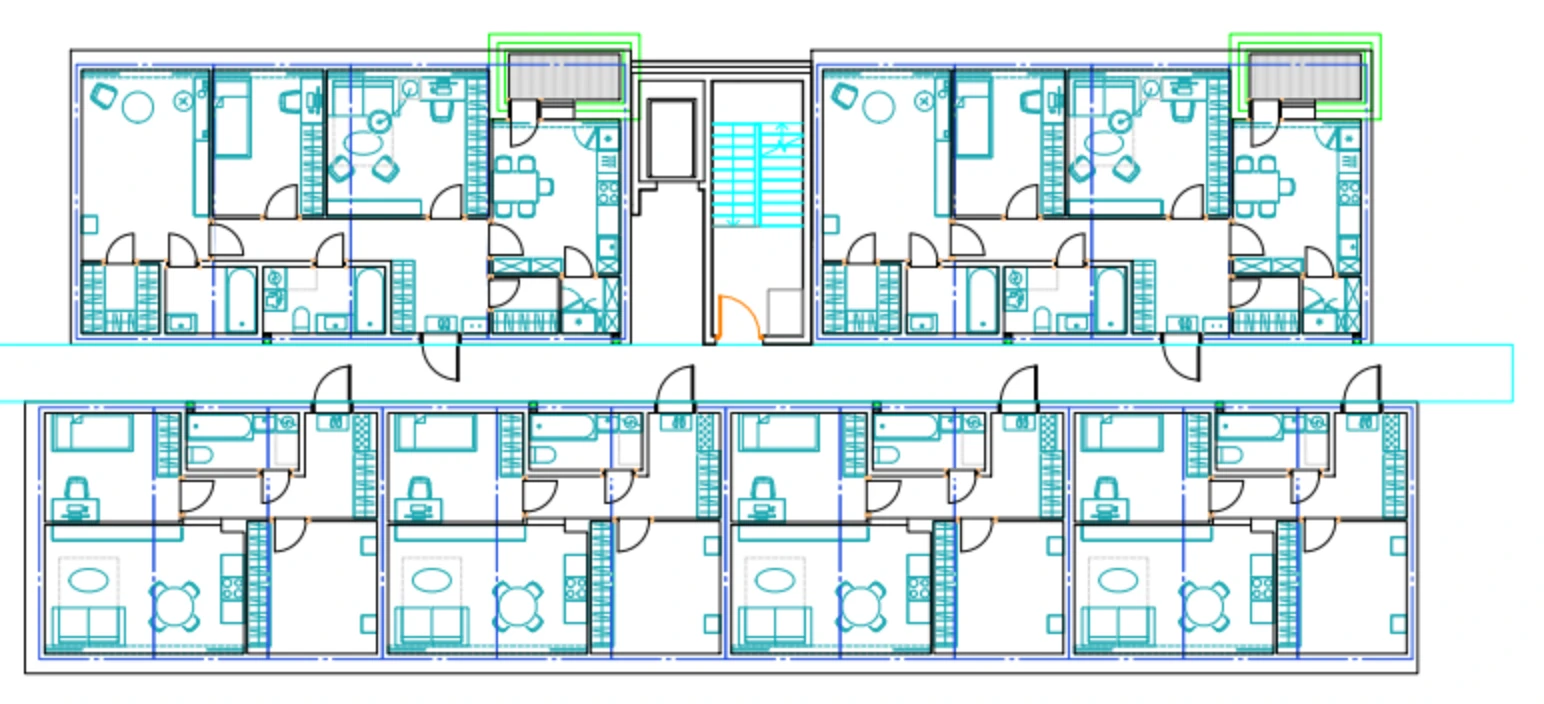
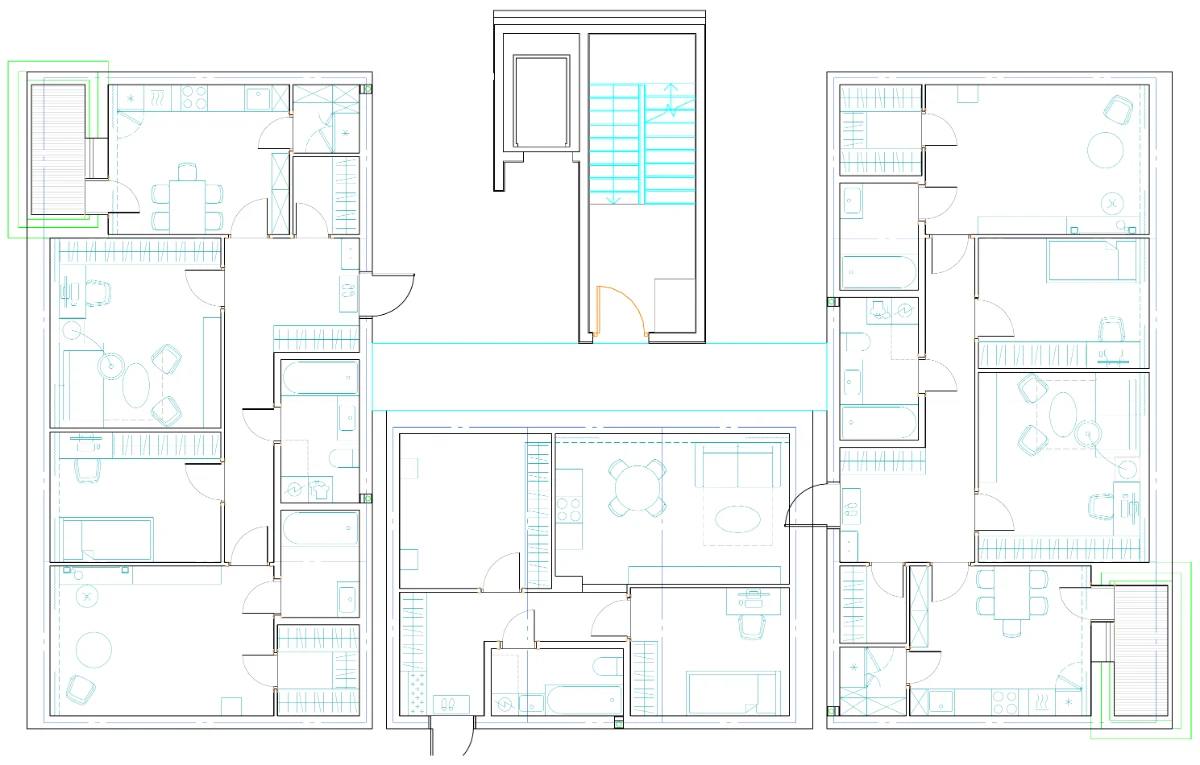
витрина: на первом экране чертёж в полном разрешении
Был кроп 1544x704 из листа AutoCAD 2978x2105 - линии рассыпались при
уменьшении. Теперь весь лист двумя размерами через srcset: телефону
1200x765 и 56 КБ, экрану с двойной плотностью 2400x1530 и 148 КБ.

LCP на мобильном 2460 мс при бюджете 2500, приёмка 30/30.

diff --git a/site/index.html b/site/index.html
@@ -15,7 +15,7 @@
   <link rel="icon" type="image/png" sizes="64x64" href="program-flow/branding/kvartirnik-icon-64.png?v=liquid-glass-1">
   <link rel="apple-touch-icon" sizes="180x180" href="program-flow/branding/kvartirnik-icon-180.png?v=liquid-glass-1">
   <link rel="canonical" href="https://kvartirnik-au.ru/">
-  <link rel="preload" as="image" href="program-flow/output/llt-section.webp" type="image/webp" fetchpriority="high">
+  <link rel="preload" as="image" href="program-flow/output/llt-section.webp" type="image/webp" imagesrcset="program-flow/output/llt-section.webp 1200w, program-flow/output/llt-section@2x.webp 2400w" imagesizes="(max-width: 900px) 100vw, 720px" fetchpriority="high">
   <link rel="stylesheet" href="program-flow/index-html.7ae7b770ad96.css">
   <script type="module" src="program-flow/nav-menu.js"></script>
   <script type="module" src="program-flow/manager-overview.js"></script>
@@ -68,7 +68,7 @@
       <figure class="result-proof">
         <div class="result-proof__frame">
           <div class="result-proof__canvas">
-          <img id="evidenceImage" src="program-flow/output/llt-section.webp" width="1544" height="704" decoding="async" fetchpriority="high" alt="Настоящий снимок работающего приложения: детальные планы квартир CS3-90 с мебелью, стенами, дверями, коридором и лифтово-лестничным узлом." aria-describedby="resultAnnotations resultCaption">
+          <img id="evidenceImage" src="program-flow/output/llt-section.webp" srcset="program-flow/output/llt-section.webp 1200w, program-flow/output/llt-section@2x.webp 2400w" sizes="(max-width: 900px) 100vw, 720px" width="1200" height="765" decoding="async" fetchpriority="high" alt="Настоящий снимок работающего приложения: детальные планы квартир широтной секции ЛЛТ с мебелью, стенами, дверями, коридором и лифтово-лестничным узлом.">
             <ol class="result-proof__annotations" id="resultAnnotations" aria-label="Что показано на схеме">
               <li data-callout="apartments"><span>1</span><strong>Квартиры размещены</strong></li>
               <li data-callout="core"><span>2</span><strong>ЛЛУ и коридор сохранены</strong></li>
@@ -152,11 +152,11 @@
           <details class="technical-details technical-details--compact" data-technical-copy>
             <summary>Версия витрины и приложения</summary>
             <dl>
-              <div><dt>Исходник портала</dt><dd id="portalBuildCommit" title="publication-20260812095841">publication-20260812095841</dd></div>
-              <div><dt>Портал собран</dt><dd id="portalBuildGeneratedAt">12 августа 2026 г. в 12:58</dd></div>
+              <div><dt>Исходник портала</dt><dd id="portalBuildCommit" title="publication-20260812102725">publication-20260812102725</dd></div>
+              <div><dt>Портал собран</dt><dd id="portalBuildGeneratedAt">12 августа 2026 г. в 13:27</dd></div>
               <div><dt>Портал опубликован</dt><dd id="portalBuildPublishedAt">нет данных</dd></div>
               <div><dt>Режим портала</dt><dd id="portalBuildMode">локальная сборка</dd></div>
-              <div><dt>Версия приложения</dt><dd id="applicationCommit" title="publication-20260812095841">publication-20260812095841</dd></div>
+              <div><dt>Версия приложения</dt><dd id="applicationCommit" title="publication-20260812102725">publication-20260812102725</dd></div>
               <div><dt>Проверка приложения</dt><dd id="applicationRelease">подтверждённого результата проверки нет</dd></div>
               <div><dt>Приложение проверено</dt><dd id="applicationCheckedAt">нет данных</dd></div>
             </dl>

diff --git a/site/program-flow/roadmap.html b/site/program-flow/roadmap.html
@@ -90,7 +90,7 @@
         </article>
         <article>
           <span>Публикация</span>
-          <strong id="deploymentSha" title="Исходник портала: publication-20260812095841; удалённая проверка: нет данных">нет данных о публикации</strong>
+          <strong id="deploymentSha" title="Исходник портала: publication-20260812102725; удалённая проверка: нет данных">нет данных о публикации</strong>
           <small id="deploymentCheck" data-tone="unknown">Автоматическая проверка публикации: нет данных</small>
         </article>
       </div>
